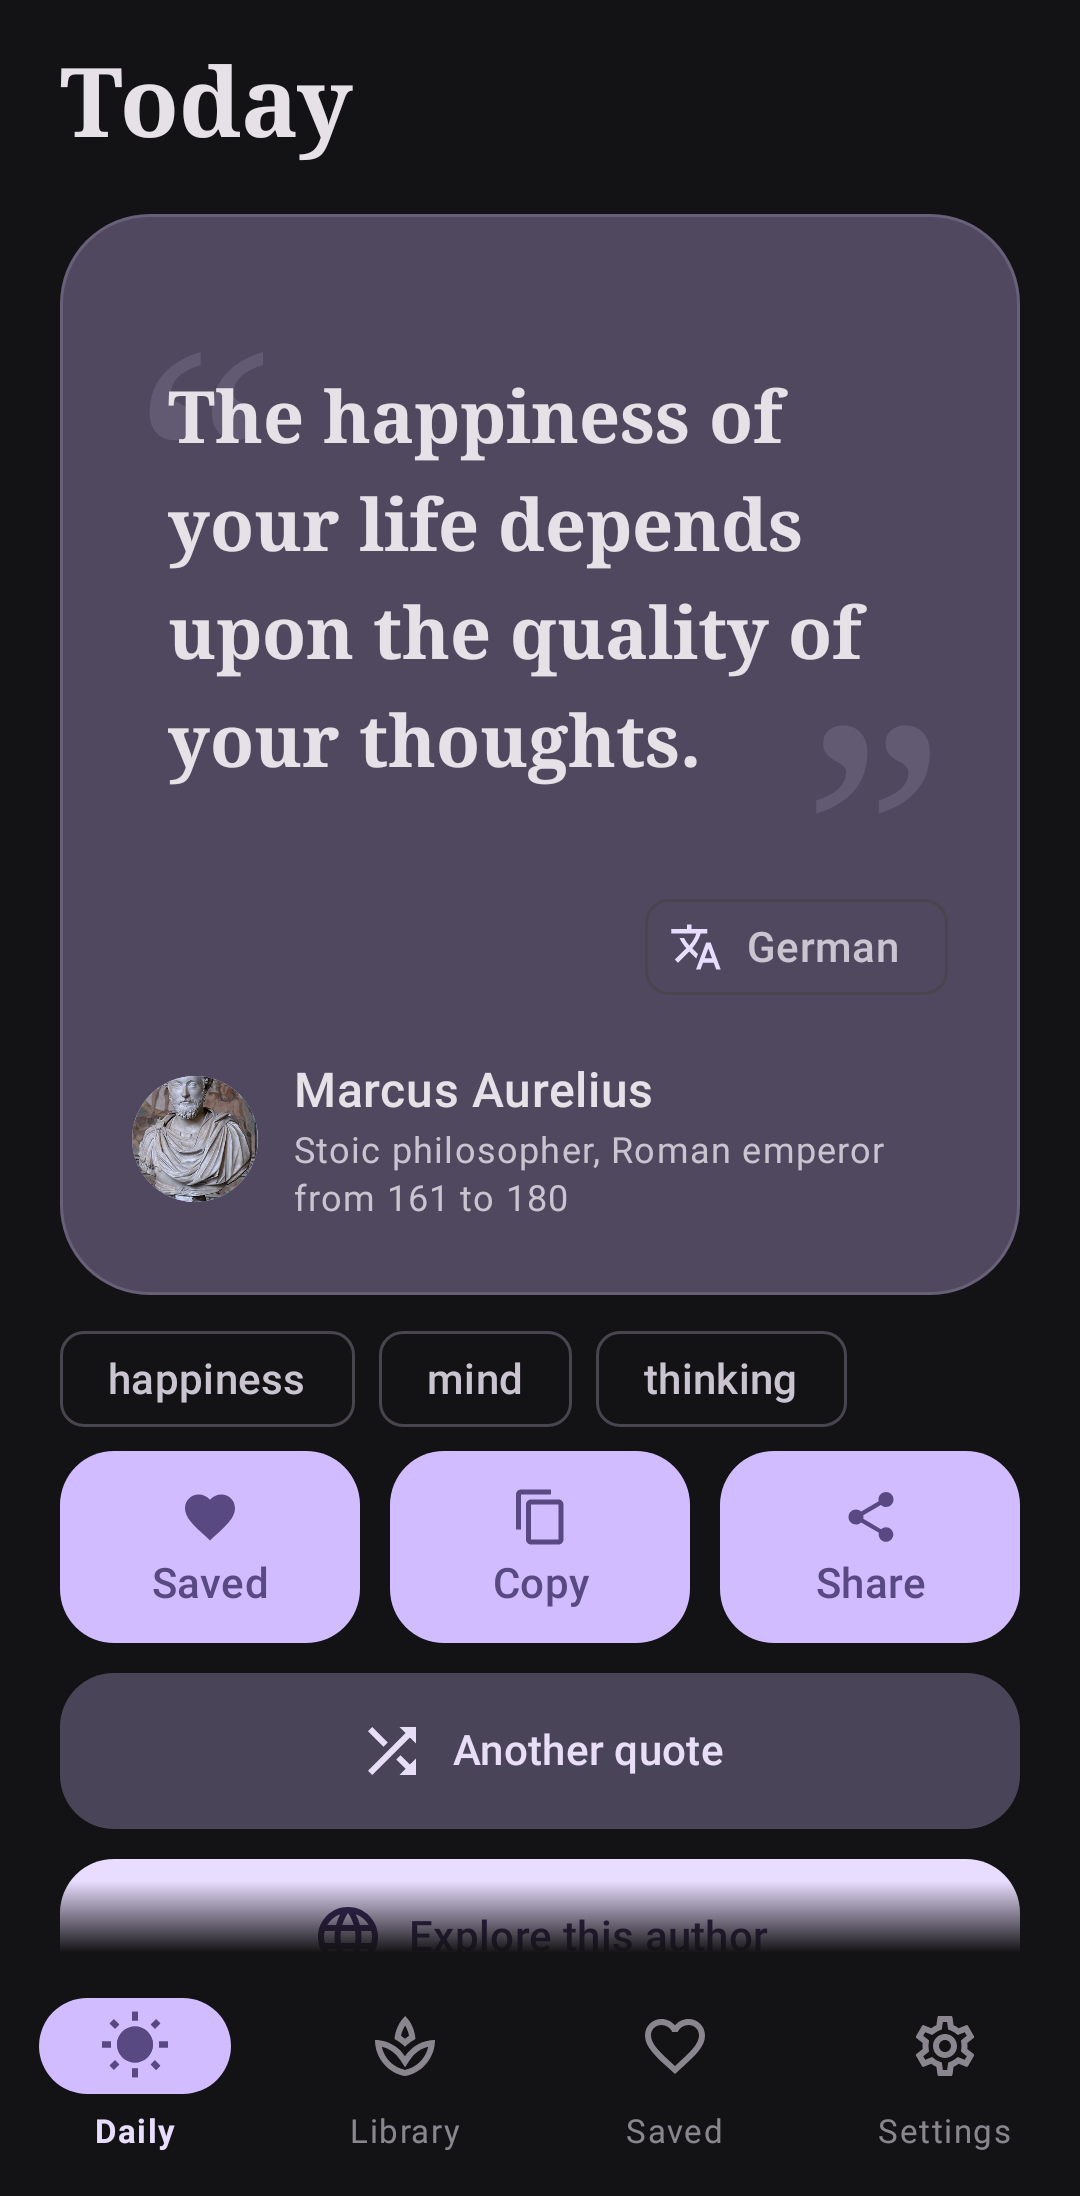
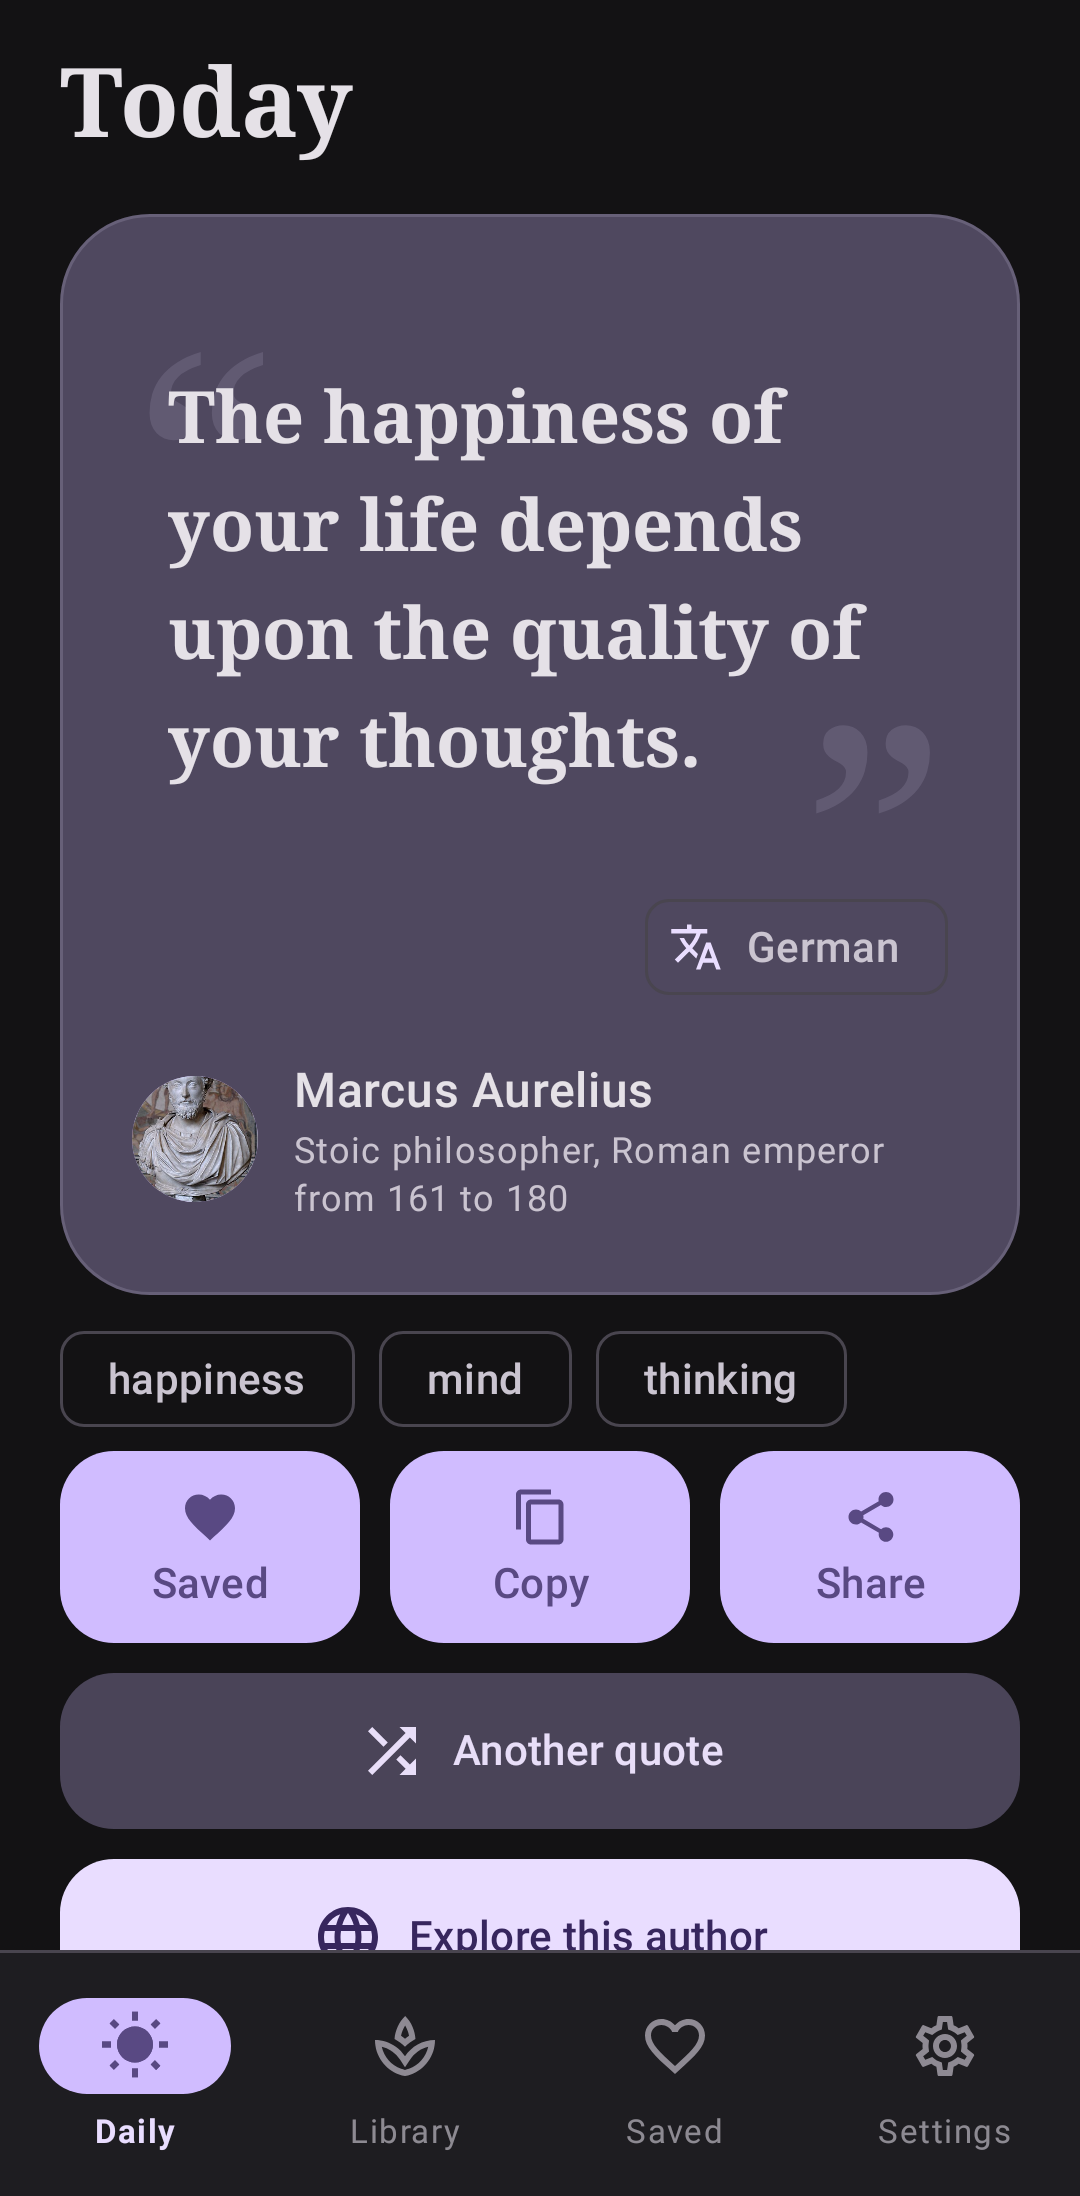
Quote 2.1.3: bottom bar with a clear top edge (#38)
The bottom bar gets its own surfaceContainer surface (75% opaque with blur, opaque without) and a 1dp outlineVariant divider instead of the background-coloured gradient. README screenshots re-recorded; regression test that an update keeps today's quote. Version 2.1.3 (22).

Claude-Session: https://claude.ai/code/session_01LDEBWvrCvCcGP5tSPVrrBz

Changed region(s): [[0.0306, 0.8361, 0.9472, 0.898]]

diff --git a/app/src/main/java/app/brokoli5191/quote/MainActivity.kt b/app/src/main/java/app/brokoli5191/quote/MainActivity.kt
@@ -44,8 +44,6 @@ import androidx.compose.runtime.saveable.rememberSaveable
 import androidx.compose.ui.Alignment
 import androidx.compose.ui.Modifier
 import androidx.compose.ui.draw.clip
-import androidx.compose.ui.graphics.Brush
-import androidx.compose.ui.graphics.Color
 import androidx.compose.ui.graphics.graphicsLayer
 import androidx.compose.ui.input.pointer.pointerInput
 import androidx.compose.ui.hapticfeedback.HapticFeedbackType
@@ -67,7 +65,6 @@ import app.brokoli5191.quote.ui.QuoteViewModel
 import app.brokoli5191.quote.ui.QuoteViewModelFactory
 import app.brokoli5191.quote.ui.LocalAppLanguage
 import app.brokoli5191.quote.ui.uiText
-import app.brokoli5191.quote.ui.components.BottomNavigationBarFade
 import app.brokoli5191.quote.ui.components.BottomNavigationBarHeight
 import app.brokoli5191.quote.ui.components.QuoteEventsHost
 import app.brokoli5191.quote.ui.screens.DailyScreen
@@ -707,15 +704,12 @@ fun BottomNavigationBar(
     onTabSelected: (String) -> Unit
 ) {
     val haptic = LocalHapticFeedback.current
-    val barColor = MaterialTheme.colorScheme.background.copy(alpha = if (blurEnabled) 0.72f else 1f)
+    // A surface of its own with a clear top edge: content scrolling under the bar (the "Another quote"
+    // button, list cards) must not look like part of it. With blur on, the blurred content shows
+    // through the translucent surface; the divider keeps the edge visible either way.
+    val barColor = MaterialTheme.colorScheme.surfaceContainer.copy(alpha = if (blurEnabled) 0.75f else 1f)
     Column(modifier = Modifier.fillMaxWidth()) {
-        // Soft top edge instead of a divider line: content scrolling under the bar fades into it.
-        Box(
-            modifier = Modifier
-                .fillMaxWidth()
-                .height(BottomNavigationBarFade)
-                .background(Brush.verticalGradient(listOf(Color.Transparent, barColor)))
-        )
+        HorizontalDivider(thickness = 1.dp, color = MaterialTheme.colorScheme.outlineVariant)
         Row(
             modifier = Modifier
                 .fillMaxWidth()

diff --git a/app/src/test/java/app/brokoli5191/quote/ui/QuoteViewModelTest.kt b/app/src/test/java/app/brokoli5191/quote/ui/QuoteViewModelTest.kt
@@ -460,6 +460,22 @@ class QuoteViewModelTest {
     }
 
     @Test
+    fun anAppUpdateKeepsTodaysQuoteAlsoWhenItsTextWasCorrected() {
+        runBlocking { repository.preseedDatabase(context) }
+        // Installed by an older version, whose seed stored the text without its spaces.
+        prefs.edit().putBoolean("database_json_seeded_v14", true).commit()
+        val before = newViewModel().dailyQuote.await { it != null }!!
+        runBlocking { dao.updateText(before.id, before.text.replace(" ", ""), before.author, before.textDe, before.textEn) }
+
+        // The update: a new process re-seeds, then shows the stored pick with its corrected text.
+        store.clear()
+        val after = newViewModel()
+        after.checkAndSeedDatabase()
+        val shown = after.dailyQuote.await { it?.text == before.text }!!
+        assertEquals(before.id, shown.id)
+    }
+
+    @Test
     fun aDoubleTapAddsTheQuoteOnceInItsLanguage() {
         val vm = newViewModel()
         vm.addUserQuote("Stay curious.", "Me", "Life", "", language = QuoteLanguage.GERMAN)

diff --git a/app/src/main/java/app/brokoli5191/quote/ui/components/FloatingChrome.kt b/app/src/main/java/app/brokoli5191/quote/ui/components/FloatingChrome.kt
@@ -31,9 +31,6 @@ import dev.chrisbanes.haze.hazeEffect
 // Height of the main bottom navigation bar above the system navigation inset.
 val BottomNavigationBarHeight = 81.dp
 
-// Fade above the bottom navigation bar; drawn over content, which keeps 32dp extra bottom padding.
-val BottomNavigationBarFade = 24.dp
-
 /** Distance from the screen bottom to the top edge of the floating bottom navigation bar. */
 @Composable
 fun floatingBottomBarHeight(): Dp =

diff --git a/.github/release-notes/2.1.3.md b/.github/release-notes/2.1.3.md
@@ -1,0 +1,3 @@
+## What's New in Quote 2.1.3
+
+* The bottom navigation bar now has a clear edge and its own background, so buttons scrolling underneath it no longer blend into it. With blur on, the content behind it still shows through softly
